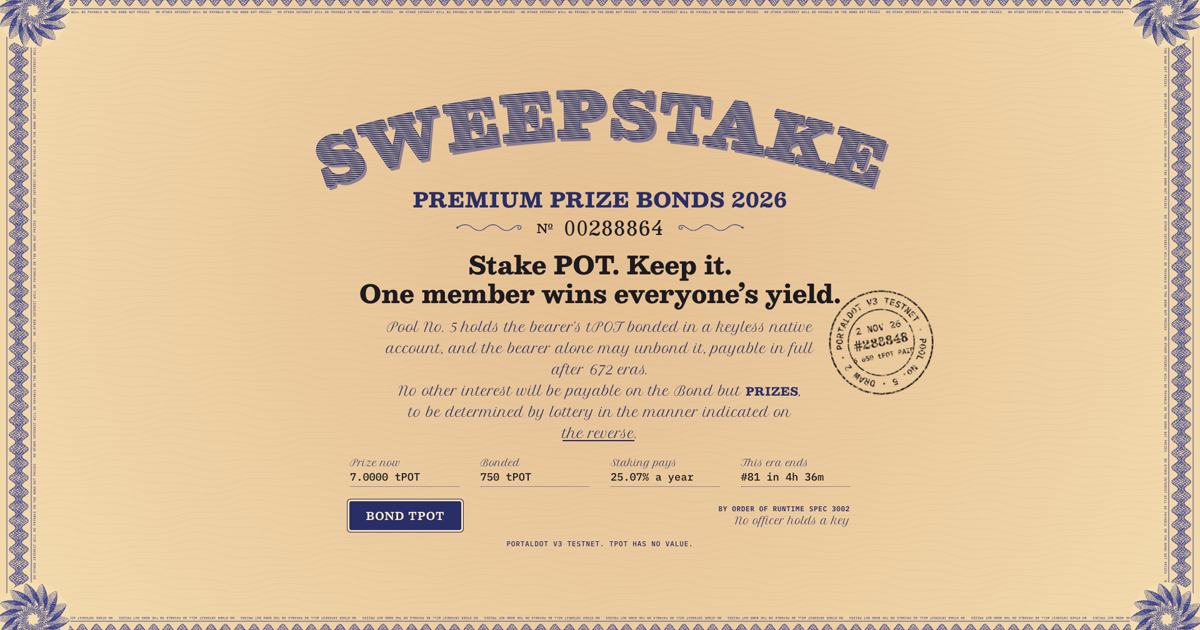
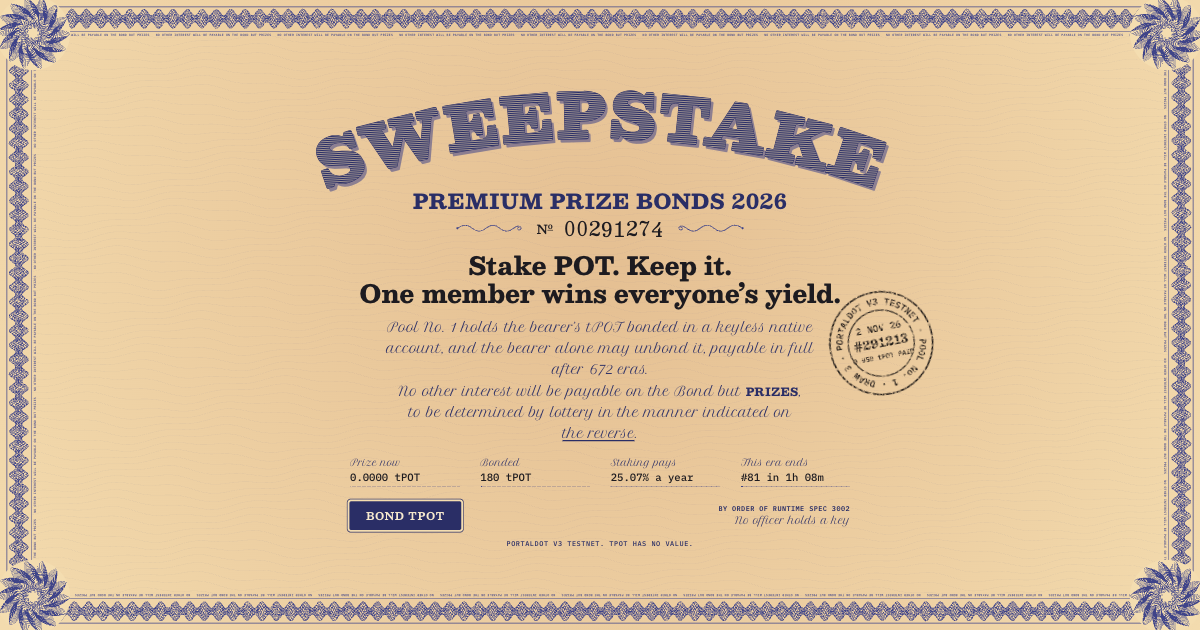
Record draws 2 and 3 and the live proof
The website paid draws 2 and 3, a wallet with no role claimed commission, and two wallets unbonded. The link preview now shows the live pool.

diff --git a/README.md b/README.md
@@ -15,8 +15,8 @@ or a contract with their deposit, because no contract ever holds it.
 | Network | Portaldot V3 testnet, EVM chain 420420777, runtime spec 3002 |
 | Prize contract | [`0x2C898e8E0511792A530AB7CFE6C7FC3FAa9C99aF`](https://scanner-testnet-v3.portaldot.dev/#/accounts/5D56pvJwuWPKwmuVisyq9Up8U97azqwBHGBiSojgsrd6nFyf), live, see [Testnet deployment](#testnet-deployment) |
 | Pool | Nomination pool 1, the first on this testnet |
-| First draw | [Paid 4.75 tPOT in block 290955](https://scanner-testnet-v3.portaldot.dev/#/blocks/290955?tab=events) |
-| Demo video | 2 minutes 38, filmed on a fork of the live chain, public link to follow |
+| Draws | 3 paid on the live chain, the first in [block 290955](https://scanner-testnet-v3.portaldot.dev/#/blocks/290955?tab=events) |
+| Demo video | 2 minutes 51, filmed on the live testnet with a stand-in wallet, public link to follow |
 
 ## How it works
 
@@ -64,17 +64,18 @@ pool, and anyone can leave using only the chain's own pallet.
 | Solidity bytecode runs on Revive | Deployed in block 290907, 1,785 bytes, and the code matches this repository's build | Passed live |
 | Ethereum transactions reach the pool pallet | The pool was opened, configured and joined entirely through the pallets address | Passed live |
 | 100% commission reaches the contract | A 5 tPOT reward moved from the pool to the vault | Passed live |
-| A stranger can claim it | Claim permission reads `Permissionless` live. A stranger claimed in the fork rehearsal | Passed live, claim by a stranger on fork |
+| A stranger can claim it | A wallet with no role moved 1 tPOT into the vault in block 291191 | Passed live |
 | `address(this).balance` sees that income | The contract paid out exactly what the pool sent it | Passed live |
 | The operator cannot redirect the commission after setup | Roles read `root: null`, and `eth_estimateGas` for `setCommission` answers `DoesNotHavePermission` | Passed live, dry run |
 | The off-chain ticket equals the contract's ticket | Draw 1, rebuilt with **Check it** on the website | Passed live |
 | The contract pays a native account | Draw 1 paid 4.75 of 5 tPOT, and 0.25 to the keeper | Passed live |
-| A browser can rebuild a draw | **Check it** on draw 1, all four steps | Passed live |
-| A browser can finish a draw | Website run against the fork | Passed on fork |
-| A member leaves with no help from the contract | `eth_estimateGas` for `unbond` from a member succeeds live. A full unbond ran in the fork rehearsal | Passed live, dry run |
+| A browser can rebuild a draw | **Check it** on all three draws | Passed live |
+| A browser can finish a draw | **Finish it** on the website paid draws 2 and 3, signed by a test wallet | Passed live |
+| A member joins and leaves with no help from the contract | Two test wallets bonded and unbonded from the website, in blocks 291093 to 291231. Their tPOT is free after the chain's 672 era wait | Passed live |
 | Ethereum RPC block hashes equal Solidity's `blockhash` | `npm run live-checks` | Passed live |
 | The node keeps old state, so old draws stay checkable | `npm run live-checks`, state read at block 1 | Passed live |
-| Staking rewards reach a draw | The pool's first rewards arrive once era 82 ends. Draw 1 was funded by a sponsor transfer | Waiting for era 82 |
+| Staking rewards reach a draw | The pool's first rewards arrive once era 82 ends. Draws 1 to 3 were funded by sponsor transfers | Waiting for era 82 |
+| A real MetaMask window signs | The website's wallet code is standard EIP-1193, but every signature so far came from a stand-in test wallet | Not tested yet |
 
 ## Run it yourself
 
@@ -152,7 +153,7 @@ Live on the Portaldot V3 testnet since November 2, 2026. `npm run setup` wrote t
 | Operator | `0xCB4a9671B44F58C48252D96642eB67ff35B06401`, native `5GfFjaXp9bEeT17Qe4Xn77n6uZxeGXKR72GVrj1hGwk6whWg` |
 | PrizeVault | `0x2C898e8E0511792A530AB7CFE6C7FC3FAa9C99aF`, native [`5D56pvJwuWPKwmuVisyq9Up8U97azqwBHGBiSojgsrd6nFyf`](https://scanner-testnet-v3.portaldot.dev/#/accounts/5D56pvJwuWPKwmuVisyq9Up8U97azqwBHGBiSojgsrd6nFyf) |
 | Nomination pool | Pool 1, stash `5EYCAe5ijiYfAXEth5DCfmQ9jnv4BFmdonKpbxwrc2nAw5uj`, nominating both active validators |
-| Bonded | 200 tPOT: a 20 tPOT founding bond, which is left out of the draw, and 3 test members of 60 tPOT |
+| Bonded | 200 tPOT: a 20 tPOT founding bond, which is left out of the draw, and 3 test members of 60 tPOT. Two 10 tPOT test bonds are unbonding |
 | Explorer | https://scanner-testnet-v3.portaldot.dev |
 
 Every step below is an Ethereum transaction signed by one key.
@@ -180,13 +181,30 @@ prize can be added by anyone. The website rebuilds it with **Check it**.
 | Winner | `0x44d11934fe9667104879A1570d74eD2B81e52a50`, 4.75 tPOT |
 | Keeper fee | 0.25 tPOT |
 
+**Draws 2 and 3.** These were sponsored too, and the keeper stopped after committing them. A test wallet finished each
+one with the website's **Finish it** button, which is what the demo video films. Each wallet also bonded 10 tPOT and
+unbonded from the website.
+
+| Step | Draw 2 | Draw 3 |
+|---|---|---|
+| Wallet | `0x9B6fDF6dCFb3Cd6d430A1DB5175D2e97D7784E14` | `0x7A9a95f779130cbBB6afA988791277f6A1009D4f` |
[3 lines of base64/hex data omitted]
+| Winner | `0x44d11934fe9667104879A1570d74eD2B81e52a50`, 1.9 tPOT | `0x53AB03f9F8bD348fEFbC9E38E123B67bD18e648e`, 0.95 tPOT |
[1 lines of base64/hex data omitted]
+
+The commission for draw 3 was claimed by a wallet with no role, in
+[block 291191](https://scanner-testnet-v3.portaldot.dev/#/blocks/291191?tab=events),
[1 lines of base64/hex data omitted]
+
 ## Repository
 
 ```text
 contracts/       PrizeVault.sol and its Foundry tests
 shared/          Draw maths, pallet call encoding and the ABI, used by keeper and website alike
 keeper/lib/      Chain, wallet and pool helpers
-keeper/scripts/  setup, seed-members, sponsor, crank and live-checks
+keeper/scripts/  setup, seed-members, sponsor, crank, film-wallet and live-checks
 keeper/fork/     Fork config, the full rehearsal, and the bridge that lets the website read a fork
 keeper/test/     Tests of the shared code
 web/             The website, with no backend: every number is read from the chain in the browser

diff --git a/docs/SUBMISSION.md b/docs/SUBMISSION.md
@@ -25,6 +25,7 @@ Ecosystem DApps
 | Pitch deck | [deck URL] |
 | Prize contract | `0x2C898e8E0511792A530AB7CFE6C7FC3FAa9C99aF` on Portaldot V3 testnet, https://scanner-testnet-v3.portaldot.dev/#/accounts/5D56pvJwuWPKwmuVisyq9Up8U97azqwBHGBiSojgsrd6nFyf |
[2 lines of base64/hex data omitted]
 
 ## Description
 
@@ -73,17 +74,21 @@ is one prize.
 
 - **Live on the V3 testnet.** `PrizeVault` is deployed at `0x2C898e8E0511792A530AB7CFE6C7FC3FAa9C99aF`, and pool 1 is
   the first nomination pool on the testnet. It has 200 tPOT staked with both validators.
-- **A real draw has been paid.** Draw 1 moved a 5 tPOT sponsored prize from the pool to the contract, committed 3
-  members, took its ticket from block 290951, and paid 4.75 tPOT in block 290955. The website rebuilds that round from
+- **Three real draws have paid.** Draw 1 moved a 5 tPOT sponsored prize from the pool to the contract, committed 3
+  members, took its ticket from block 290951, and paid 4.75 tPOT in block 290955. The website rebuilds each round from
   public chain state and lands on the same winner.
+- **The website finishes draws.** Draws 2 and 3 were left open by the keeper and paid with the website's **Finish it**
+  button. The demo video films draw 3 live: a test wallet bonds, finishes the draw, checks it and unbonds.
+- **Nobody needs a role.** A wallet with no role moved a prize into the contract in block 291191, and the same page
+  that paid the draws also unbonded from the pool's native pallet.
 - **The renounce holds.** The pool's root and bouncer read null, and a dry run of the operator changing the commission
   answers `DoesNotHavePermission`.
 - 21 contract tests, including fuzzing, and 11 tests of the shared draw maths and call encoding.
 - A full rehearsal on a fork of the live chain: deploy, renounce, stake, claim, commit, draw, pay, unbond.
-- The website bonding, finishing a draw, checking it and unbonding on that fork, which is what the demo video films.
 - A fresh clone reproduces every step from the README.
 
-The README's "What has been proven" table says which claims passed on a fork and which passed live, and lists every
+The live draws so far ran on sponsored prizes, because staking rewards take about 12 hours to start. Every signature
+came from a stand-in test wallet. The README's "What has been proven" table says what passed live, and lists every
 transaction.
 
 ## Business model
@@ -120,6 +125,6 @@ Not part of the form. Post it when voting opens on Nov 9 at 16:00 UTC.
 > yours. The pool's rewards go to one small contract, and each draw pays them to one member. Everyone keeps their
 > POT and stays in the next draw.
 >
-> Film, 2 minutes 38: [video URL]
+> Film, 2 minutes 51: [video URL]
 > Try it on the testnet: [website URL]
 > Vote: [voting link]

diff --git a/docs/DEPLOYMENT.md b/docs/DEPLOYMENT.md
@@ -28,7 +28,8 @@ file. One key does everything: it deploys the contract, opens the pool and runs 
 | Deploy `PrizeVault` | about 153 |
 | Founding bond and fees | about 21 |
 | Test members, if you seed them | 5 each, plus their bond |
-| Keeper fees | about 1 per draw |
+| First commit | about 8, mostly a storage deposit |
+| Keeper fees after that | under 0.1 per draw |
 
 ## 3. Build and deploy
 
@@ -70,7 +71,8 @@ npm run crank
 ```
 
 One turn pays out the last era if nobody has, claims commission, then commits and draws. It reads what the chain
-needs next and does only that, so it is safe to rerun.
+needs next and does only that, so it is safe to rerun. With `npm run crank -- --leave-open` it stops after the commit,
+so a visitor can finish the draw from the website.
 
 To run it every era, add `OPERATOR_PRIVATE_KEY` as a repository secret. The workflow in
 `.github/workflows/keeper.yml` then runs it on a schedule.
